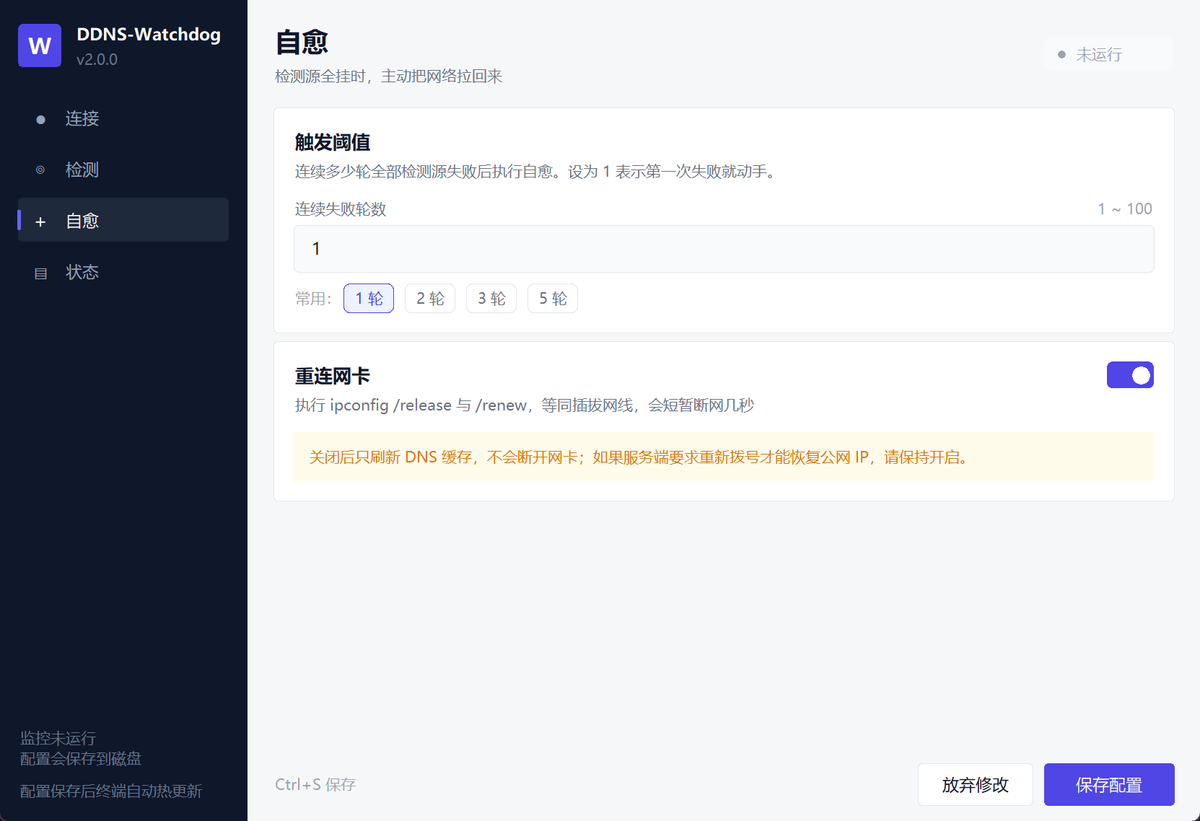
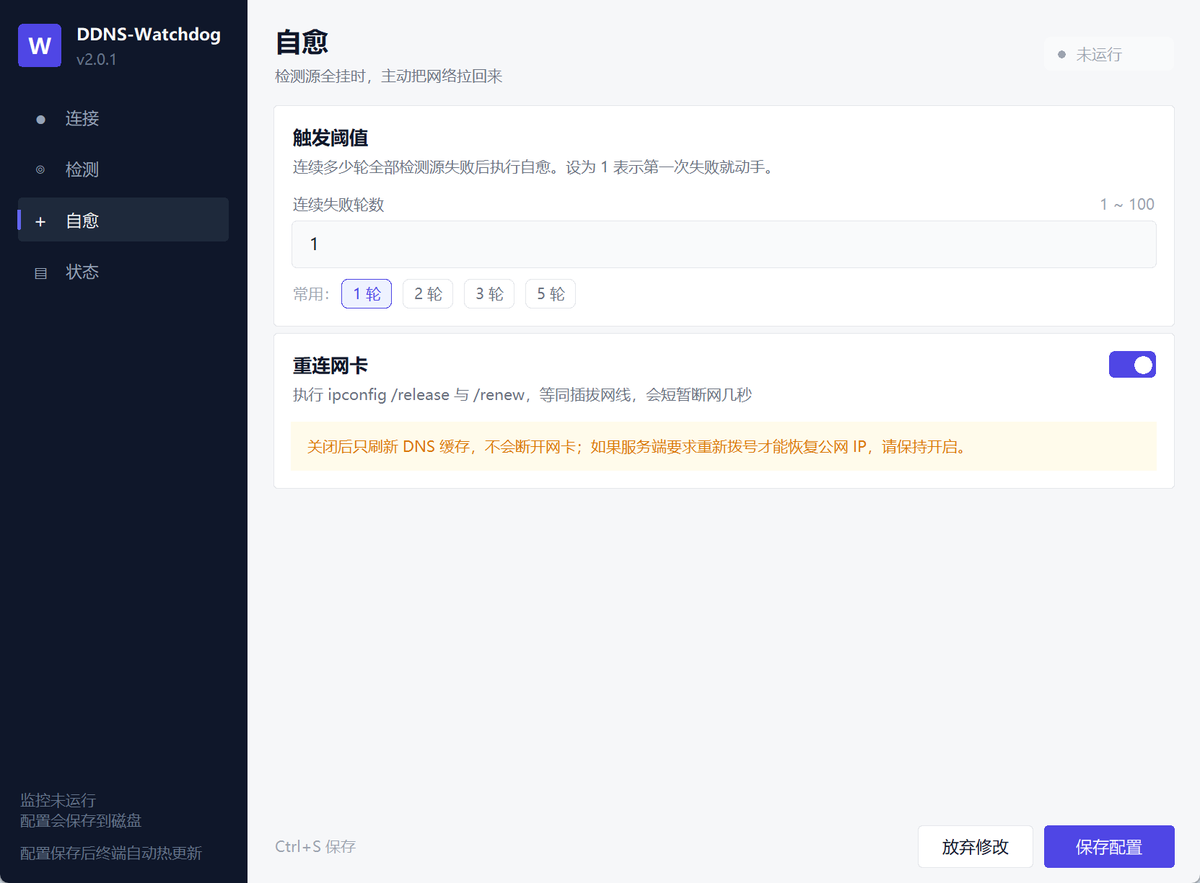
fix(ui): 四页都能一屏放下，不再需要滚动
- 首次运行不再弹红色横幅（文件不存在属正常），提示挪到页脚
- 连接页去掉「最终解析」独立行，改为主机名右侧实时预览
- 检测页把 STUN / HTTP 两个长列表合并为「分段切换 + 文本域」，页面高度减半
- 状态页日志 8 行 → 4 行，状态行距收紧
- 窗口高度 650 → 700，横幅高度压缩
- 版本 2.0.2

diff --git a/ui/pages.py b/ui/pages.py
@@ -21,11 +21,11 @@ class Page(widgets.ScrollFrame):
         self.app = app
         self.fields = {}
         self.content = tk.Frame(self.inner, bg=theme.BG)
-        self.content.pack(fill="x", padx=theme.px(20), pady=(theme.px(4), theme.px(16)))
+        self.content.pack(fill="x", padx=theme.px(20), pady=(theme.px(2), theme.px(12)))
         self.build()
 
-    def card(self, pady=(0, theme.px(10))):
-        card = widgets.Card(self.content, pad=theme.px(16), parent_bg=theme.BG)
+    def card(self, pady=(0, theme.px(8))):
+        card = widgets.Card(self.content, pad=theme.px(14), parent_bg=theme.BG)
         card.pack(fill="x", pady=pady)
         return card
 
@@ -74,13 +74,13 @@ class ConnectionPage(Page):
         self.provider = widgets.SegmentedControl(
             body, [("tencent", "腾讯云 API 密钥"), ("dnspod", "DNSPod 令牌")],
             value="tencent", command=self._on_provider, width=theme.px(360))
-        self.provider.pack(anchor="w", pady=(theme.px(10), theme.px(12)))
+        self.provider.pack(anchor="w", pady=(theme.px(8), theme.px(10)))
 
         self.tencent_group = tk.Frame(body, bg=theme.SURFACE)
         self.secret_id = widgets.TextField(
             self.tencent_group, "SecretId", hint="AKID 开头",
             placeholder="AKIDxxxxxxxxxxxxxxxx")
-        self.secret_id.pack(fill="x", pady=(0, theme.px(10)))
+        self.secret_id.pack(fill="x", pady=(0, theme.px(8)))
         self.secret_key = widgets.TextField(
             self.tencent_group, "SecretKey", secret=True, hint="与 SecretId 成对")
         self.secret_key.pack(fill="x")
@@ -101,27 +101,23 @@ class ConnectionPage(Page):
         body = card.body
         widgets.SectionTitle(body, "解析目标", "记录不存在会自动创建，只影响这一条记录").pack(fill="x")
         row = tk.Frame(body, bg=theme.SURFACE)
-        row.pack(fill="x", pady=(theme.px(10), 0))
+        row.pack(fill="x", pady=(theme.px(8), 0))
         row.grid_columnconfigure(0, weight=3)
         row.grid_columnconfigure(1, weight=2)
 
-        self.domain = widgets.TextField(row, "主域名", hint="不带 http://")
-        self.domain.grid(row=0, column=0, sticky="ew", padx=(0, theme.px(14)))
-        self.sub_domain = widgets.TextField(row, "主机名", hint="@ 表示根域")
+        self.domain = widgets.TextField(row, "主域名")
+        self.domain.grid(row=0, column=0, sticky="ew", padx=(0, theme.px(12)))
+        self.sub_domain = widgets.TextField(row, "主机名（@ 为根域）")
         self.sub_domain.grid(row=0, column=1, sticky="ew")
         self.fields["domain"] = self.domain
         self.fields["sub_domain"] = self.sub_domain
-
-        self.target_label = tk.Label(body, text="", bg=theme.SURFACE, fg=theme.ACCENT,
-                                     font=theme.FONT_SMALL, anchor="w")
-        self.target_label.pack(fill="x", pady=(theme.px(8), 0))
 
         self.domain.var.trace_add("write", lambda *_: self._refresh_target())
         self.sub_domain.var.trace_add("write", lambda *_: self._refresh_target())
 
         # 测试连接：并进同一张卡片，少一张卡、少一段留白
         tk.Frame(body, bg=theme.BORDER, height=1).pack(fill="x",
-                                                       pady=(theme.px(14), theme.px(12)))
+                                                       pady=(theme.px(10), theme.px(10)))
         line = tk.Frame(body, bg=theme.SURFACE)
         line.pack(fill="x")
         self.test_btn = widgets.RoundedButton(line, "测试连接", command=self._test,
@@ -143,10 +139,11 @@ class ConnectionPage(Page):
         self.app.mark_dirty()
 
     def _refresh_target(self):
-        domain = self.domain.get() or "example.com"
-        sub = self.sub_domain.get() or "@"
-        self.target_label.configure(
-            text="最终解析：%s" % (domain if sub == "@" else "%s.%s" % (sub, domain)))
+        domain = self.domain.get().strip() or "example.com"
+        sub = (self.sub_domain.get().strip() or "@").lower()
+        full = domain if sub == "@" else "%s.%s" % (sub, domain)
+        # 直接显示在主机名输入框右上角，省掉一整行「最终解析」
+        self.sub_domain.set_hint("→ " + full)
 
     def load(self, cfg):
         self.provider.set(cfg.get("provider", "tencent"), animate=False)
@@ -294,6 +291,9 @@ class ListEditor(tk.Frame):
         self.error.configure(text="")
 
 
+SOURCE_HINT = "每行一个地址，按从上到下的顺序尝试"
+
+
 class DetectionPage(Page):
     key = "detection"
     title = "检测"
@@ -335,28 +335,89 @@ class DetectionPage(Page):
         note.pack(fill="x", pady=(theme.px(8), 0))
         widgets.wrap_to(body, note)
 
-        card = self.card()
-        body = card.body
-        widgets.SectionTitle(
-            body, "STUN 检测源",
-            "UDP 直连，不依赖 HTTP 与 DNS 解析，弱网下最可靠；按顺序尝试").pack(fill="x")
-        self.stun = ListEditor(body, placeholder="stun.qq.com:3478", bg=theme.SURFACE,
-                               defaults=config_mod.DEFAULT_STUN_SERVERS)
-        self.stun.pack(fill="x", pady=(theme.px(10), 0))
-        self.stun.on_change = lambda: self.app.mark_dirty()
-        self.fields["stun_servers"] = self.stun
-
+        # 检测源：STUN 与 HTTP 共用一块文本域，分段切换。
+        # 七行 HTTP 源如果用逐行输入框，卡片会被撑到一屏放不下。
         card = self.card(pady=(0, 0))
         body = card.body
-        widgets.SectionTitle(
-            body, "HTTP 备用源",
-            "STUN 全部失败时才会用到；建议保留纯 IPv4 接口").pack(fill="x")
-        self.http_sources = ListEditor(body, placeholder="https://4.ipw.cn",
-                                       bg=theme.SURFACE,
-                                       defaults=config_mod.DEFAULT_HTTP_SOURCES)
-        self.http_sources.pack(fill="x", pady=(theme.px(10), 0))
-        self.http_sources.on_change = lambda: self.app.mark_dirty()
-        self.fields["http_sources"] = self.http_sources
+        widgets.SectionTitle(body, "检测源",
+                             "STUN 优先，全部失败才用 HTTP；每行一个地址").pack(fill="x")
+        head = tk.Frame(body, bg=theme.SURFACE)
+        head.pack(fill="x", pady=(theme.px(8), 0))
+        self.source_tabs = widgets.SegmentedControl(
+            head, [("stun", "STUN 检测源"), ("http", "HTTP 备用源")],
+            value="stun", command=self._switch_sources, width=theme.px(250))
+        self.source_tabs.pack(side="left")
+        self.source_hint = tk.Label(head, text="", bg=theme.SURFACE, fg=theme.FAINT,
+                                    font=theme.FONT_SMALL, anchor="e")
+        self.source_hint.pack(side="right")
+
+        holder = tk.Frame(body, bg=theme.FIELD_BG, highlightthickness=1,
+                          highlightbackground=theme.BORDER, highlightcolor=theme.ACCENT)
+        holder.pack(fill="x", pady=(theme.px(10), 0))
+        self.source_text = tk.Text(
+            holder, height=5, bd=0, relief="flat", bg=theme.FIELD_BG, fg=theme.TEXT,
+            font=theme.FONT_MONO, insertbackground=theme.ACCENT, wrap="none",
+            padx=theme.px(10), pady=theme.px(8), highlightthickness=0)
+        self.source_text.pack(fill="x")
+        self.source_text.bind("<KeyRelease>", lambda e: self.app.mark_dirty())
+        self.source_text.bind("<FocusIn>", lambda e: holder.configure(
+            highlightbackground=theme.ACCENT))
+        self.source_text.bind("<FocusOut>", lambda e: holder.configure(
+            highlightbackground=theme.BORDER))
+
+        foot = tk.Frame(body, bg=theme.SURFACE)
+        foot.pack(fill="x", pady=(theme.px(8), 0))
+        widgets.RoundedButton(foot, "恢复默认", command=self._reset_sources,
+                              kind="ghost", width=theme.px(86),
+                              height=theme.px(30)).pack(side="left")
+        self.source_error = tk.Label(foot, text=SOURCE_HINT, bg=theme.SURFACE,
+                                     fg=theme.FAINT, font=theme.FONT_SMALL,
+                                     anchor="w", justify="left")
+        self.source_error.pack(side="left", padx=(theme.px(10), 0))
+
+        self._sources = {"stun": list(config_mod.DEFAULT_STUN_SERVERS),
+                         "http": list(config_mod.DEFAULT_HTTP_SOURCES)}
+        self._active = "stun"
+        self.fields["stun_servers"] = self
+        self.fields["http_sources"] = self
+
+    # -- 检测源切换 -------------------------------------------------------
+    def _switch_sources(self, key):
+        self._commit_sources()
+        self._active = key
+        self._load_source_text()
+        self._sync_hint()
+        self.app.mark_dirty()
+
+    def _sync_hint(self):
+        self.source_hint.configure(
+            text="UDP 直连，按顺序尝试" if self._active == "stun"
+            else "STUN 全失败时才用，建议保留纯 IPv4 接口")
+
+    def _commit_sources(self):
+        text = self.source_text.get("1.0", "end")
+        self._sources[self._active] = [line.strip() for line in text.splitlines()
+                                       if line.strip()]
+
+    def _load_source_text(self):
+        self.source_text.delete("1.0", "end")
+        self.source_text.insert("1.0", "\n".join(self._sources[self._active]))
+
+    def _reset_sources(self):
+        defaults = (config_mod.DEFAULT_STUN_SERVERS if self._active == "stun"
+                    else config_mod.DEFAULT_HTTP_SOURCES)
+        self._sources[self._active] = list(defaults)
+        self._load_source_text()
+        self.clear_error()
+        self.app.mark_dirty()
+
+    def show_error(self, message):
+        current = str(self.source_error.cget("text"))
+        text = message if current == SOURCE_HINT else "%s；%s" % (current, message)
+        self.source_error.configure(text=text, fg=theme.DANGER)
+
+    def clear_error(self):
+        self.source_error.configure(text=SOURCE_HINT, fg=theme.FAINT)
 
     def _use_preset(self, value):
         self.interval.set(value)
@@ -367,8 +428,13 @@ class DetectionPage(Page):
     def load(self, cfg):
         self.interval.set(str(cfg.get("check_interval_seconds", 300)))
         self.max_interval.set(str(cfg.get("max_interval_seconds", 1800)))
-        self.stun.set(cfg.get("stun_servers") or [])
-        self.http_sources.set(cfg.get("http_sources") or [])
+        self._sources = {"stun": list(cfg.get("stun_servers") or []),
+                         "http": list(cfg.get("http_sources") or [])}
+        self._active = "stun"
+        self.source_tabs.set("stun", animate=False)
+        self._load_source_text()
+        self._sync_hint()
+        self.clear_error()
         current = self.interval.get()
         for chip_value, chip in self.chips:
             chip.set_selected(chip_value == current)
@@ -376,8 +442,9 @@ class DetectionPage(Page):
     def collect(self, draft):
         draft["check_interval_seconds"] = self.interval.get()
         draft["max_interval_seconds"] = self.max_interval.get()
-        draft["stun_servers"] = self.stun.get()
-        draft["http_sources"] = self.http_sources.get()
+        self._commit_sources()
+        draft["stun_servers"] = self._sources["stun"]
+        draft["http_sources"] = self._sources["http"]
 
 
 # ---------------------------------------------------------------------------
@@ -474,8 +541,7 @@ class StatusPage(Page):
     def build(self):
         card = self.card()
         body = card.body
-        widgets.SectionTitle(body, "运行状态",
-                             "状态来自终端监控进程写入的心跳文件").pack(fill="x")
+        widgets.SectionTitle(body, "运行状态").pack(fill="x")
         head = tk.Frame(body, bg=theme.SURFACE)
         head.pack(fill="x", pady=(theme.px(16), 0))
         self.pill = widgets.StatusPill(head, bg=theme.SURFACE)
@@ -494,11 +560,11 @@ class StatusPage(Page):
                 ("revision", "配置版本"), ("config_error", "热更新")]):
             tk.Label(grid, text=label, bg=theme.SURFACE, fg=theme.FAINT,
                      font=theme.FONT_SMALL, anchor="w", width=8).grid(
-                row=index, column=0, sticky="w", pady=theme.px(3))
+                row=index, column=0, sticky="w", pady=theme.px(2))
             value = tk.Label(grid, text="—", bg=theme.SURFACE, fg=theme.TEXT,
                              font=theme.FONT_SMALL, anchor="w", justify="left",
                              wraplength=theme.px(430))
-            value.grid(row=index, column=1, sticky="w", pady=theme.px(3))
+            value.grid(row=index, column=1, sticky="w", pady=theme.px(2))
             self.rows[key] = value
 
         actions = tk.Frame(body, bg=theme.SURFACE)
@@ -516,8 +582,8 @@ class StatusPage(Page):
 
         card = self.card(pady=(0, 0))
         body = card.body
-        widgets.SectionTitle(body, "最近日志", "logs/ddns.log 末尾 8 行").pack(fill="x")
-        self.log_box = tk.Text(body, height=8, bd=0, relief="flat", bg=theme.FIELD_BG,
+        widgets.SectionTitle(body, "最近日志").pack(fill="x")
+        self.log_box = tk.Text(body, height=4, bd=0, relief="flat", bg=theme.FIELD_BG,
                                fg=theme.MUTED, font=theme.FONT_MONO, wrap="none",
                                padx=theme.px(12), pady=theme.px(10),
                                highlightthickness=1, highlightbackground=theme.BORDER)
@@ -560,7 +626,7 @@ class StatusPage(Page):
             if data.get("dryrun"):
                 self.detail.configure(text=self.detail.cget("text") + " · DRYRUN 测试模式")
 
-        lines = logging_setup.tail_lines(8)
+        lines = logging_setup.tail_lines(4)
         self.log_box.configure(state="normal")
         self.log_box.delete("1.0", "end")
         self.log_box.insert("1.0", "\n".join(lines) if lines else "（暂无日志）")

diff --git a/ui/widgets.py b/ui/widgets.py
@@ -124,11 +124,14 @@ class TextField(tk.Frame):
 
         head = tk.Frame(self, bg=bg)
         head.pack(fill="x")
+        self._head = head
         tk.Label(head, text=label, bg=bg, fg=theme.MUTED, font=theme.FONT_LABEL,
                  anchor="w").pack(side="left")
+        self._hint_label = None
         if hint:
-            tk.Label(head, text=hint, bg=bg, fg=theme.FAINT, font=theme.FONT_LABEL,
-                     anchor="e").pack(side="right")
+            self._hint_label = tk.Label(head, text=hint, bg=bg, fg=theme.FAINT,
+                                        font=theme.FONT_LABEL, anchor="e")
+            self._hint_label.pack(side="right")
 
         height = theme.px(38)
         self.canvas = tk.Canvas(self, bg=bg, height=height, highlightthickness=0, bd=0)
@@ -235,6 +238,14 @@ class TextField(tk.Frame):
         self.var.set(value or "")
         if self._error:
             self.clear_error()
+
+    def set_hint(self, text, color=theme.ACCENT):
+        """动态更新右上角的辅助文字（例如把当前完整域名显示出来）。"""
+        if self._hint_label is None:
+            self._hint_label = tk.Label(self._head, bg=self.bg, fg=color,
+                                        font=theme.FONT_LABEL, anchor="e")
+            self._hint_label.pack(side="right")
+        self._hint_label.configure(text=text, fg=color)
 
     def show_error(self, message):
         self._error = message
@@ -752,17 +763,17 @@ class Banner(tk.Canvas):
         fill, accent = palette.get(self._kind, palette["info"])
         font = tkfont.Font(font=theme.FONT_SMALL)
         # 粗略按字符宽度换行，避免提示条过高
-        per_line = max(20, int((width - theme.px(48)) / max(1, font.measure("测"))))
+        per_line = max(20, int((width - theme.px(40)) / max(1, font.measure("测"))))
         text = self._message
         lines = [text[i:i + per_line] for i in range(0, len(text), per_line)] or [""]
-        height = theme.px(20) + len(lines) * theme.px(18)
+        height = theme.px(14) + len(lines) * theme.px(16)
         self.configure(height=height)
         self.delete("all")
-        round_rect(self, 0, 0, width, height, theme.px(10), fill=fill, outline="")
-        round_rect(self, 0, theme.px(8), theme.px(3), height - theme.px(8),
+        round_rect(self, 0, 0, width, height, theme.px(8), fill=fill, outline="")
+        round_rect(self, 0, theme.px(6), theme.px(3), height - theme.px(6),
                    theme.px(2), fill=accent, outline="")
         for index, line in enumerate(lines):
-            self.create_text(theme.px(16), theme.px(12) + index * theme.px(18),
+            self.create_text(theme.px(14), theme.px(8) + index * theme.px(16),
                              text=line, anchor="nw", fill=accent, font=theme.FONT_SMALL)
 
 

diff --git a/ui/app.py b/ui/app.py
@@ -24,6 +24,8 @@ class App(object):
         self.field_index = {}
         self.current_index = -1
         self._backed_up = False
+        # 首次运行不占用顶部横幅，改在页脚提示，省下一整行高度
+        self.first_run = not config_mod.exists(self.cfg_path)
 
         self._setup_window()
         self._build_sidebar()
@@ -38,6 +40,9 @@ class App(object):
 
     # -- 启动 -------------------------------------------------------------
     def _load_initial(self):
+        # 文件不存在是首次运行，不算错误，不要走红色横幅
+        if not config_mod.exists(self.cfg_path):
+            return dict(config_mod.DEFAULT_CONFIG)
         try:
             return config_mod.load(self.cfg_path)
         except config_mod.ConfigError as e:
@@ -61,7 +66,7 @@ class App(object):
         screen_w = self.root.winfo_screenwidth()
         screen_h = self.root.winfo_screenheight()
         width = min(theme.px(950), int(screen_w * 0.92))
-        height = min(theme.px(650), int(screen_h * 0.88))
+        height = min(theme.px(700), int(screen_h * 0.88))
         self.root.geometry("%dx%d" % (width, height))
         self.root.minsize(min(theme.px(830), int(screen_w * 0.76)),
                           min(theme.px(560), int(screen_h * 0.68)))
@@ -159,8 +164,6 @@ class App(object):
         if self.load_error is not None:
             self.banner.show("配置文件有问题：%s  已按默认值载入，保存后会覆盖原文件。"
                              % self.load_error, "error")
-        elif not os.path.exists(self.cfg_path):
-            self.banner.show("还没有配置文件，填好下面的信息并保存即可开始。", "info")
 
     # -- 页面切换 ---------------------------------------------------------
     def show_page(self, index, animate=True):
@@ -233,8 +236,13 @@ class App(object):
     def _sync_title(self):
         suffix = " *" if self.dirty else ""
         self.root.title("%s 配置 v%s%s" % (APP_NAME, VERSION, suffix))
-        self.footer_hint.configure(
-            text="有未保存的修改 · Ctrl+S 保存" if self.dirty else "Ctrl+S 保存")
+        if self.dirty:
+            text = "有未保存的修改 · Ctrl+S 保存"
+        elif self.first_run:
+            text = "还没有配置文件，填好后点「保存配置」即可开始"
+        else:
+            text = "Ctrl+S 保存"
+        self.footer_hint.configure(text=text)
 
     # -- 保存 -------------------------------------------------------------
     def save(self):
@@ -282,6 +290,7 @@ class App(object):
         self._busy = False
         self.cfg = saved
         self.load_error = None
+        self.first_run = False
         self.dirty = False
         self._sync_title()
         self.banner.hide()

diff --git a/ddns_core/__init__.py b/ddns_core/__init__.py
@@ -8,7 +8,7 @@
 """
 
 APP_NAME = "DDNS-Watchdog"
-VERSION = "2.0.1"
+VERSION = "2.0.2"
 UA = "%s/%s" % (APP_NAME, VERSION)
 
 # 退出码：便于脚本/任务计划区分失败原因
